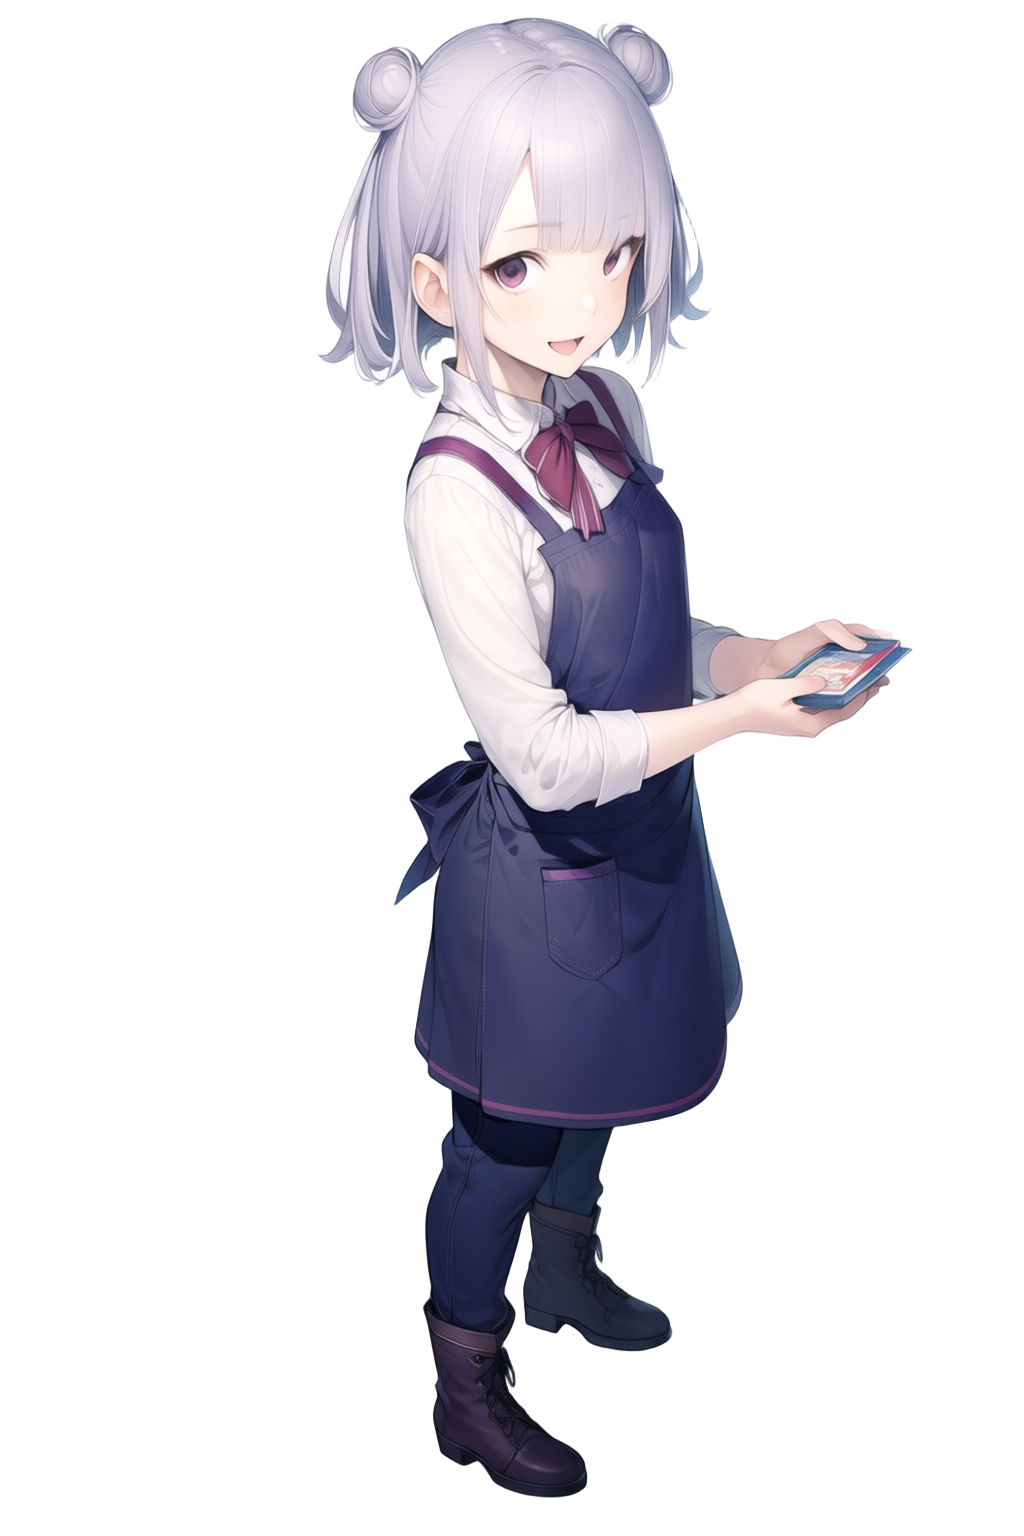
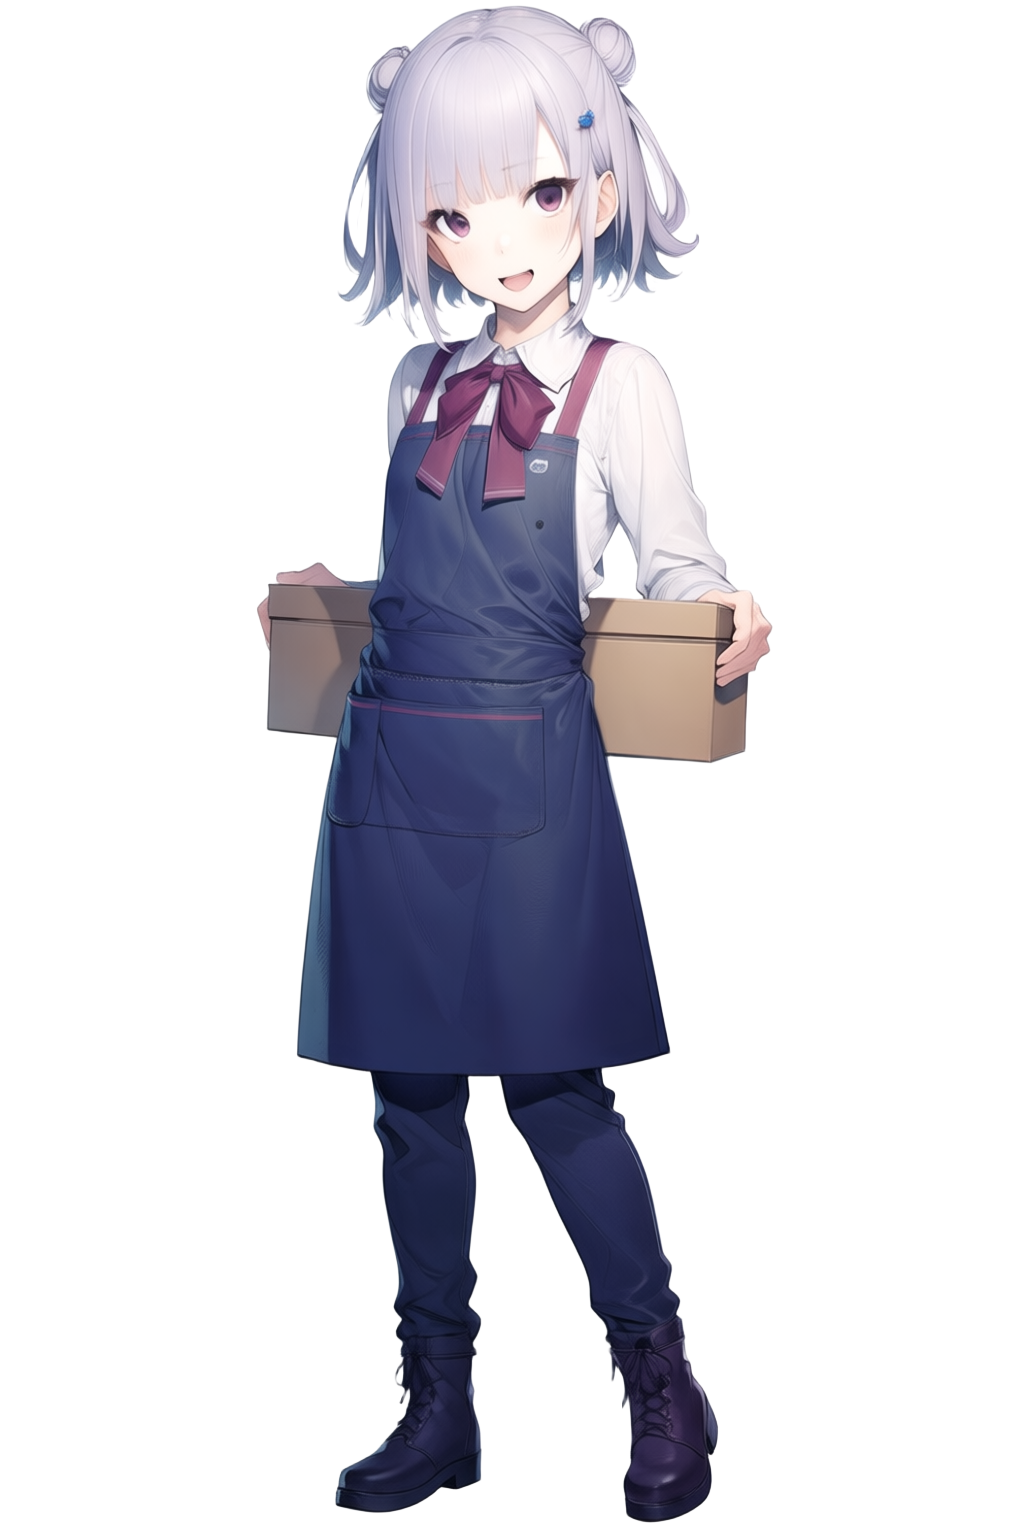
feat: refine restock assistant pilot pose

Changed region(s): [[0.25, 0.0, 0.9062, 1.0]]

diff --git a/docs/art/CHARACTER_VISUAL_PILOT_REVIEW_2026-11-01.md b/docs/art/CHARACTER_VISUAL_PILOT_REVIEW_2026-11-01.md
@@ -61,7 +61,7 @@ This review covers the 50-image pilot. The remaining 284 candidates stay review-
 | `functional_campaign` | functional pose | SCR-13 / `seasonal_campaign_started` | review pending; campaign product-presentation pose |
 | `functional_map_proposal` | functional pose | SCR-13 / `map_proposal_open` | review pending; map proposal pose shown in the area-map side panel |
 | `functional_register_guidance` | functional pose | SCR-06 / `story_register` | review pending; register placement tutorial pose |
-| `functional_restock_guidance` | functional pose | SCR-06 / `story_first_restock` | review pending; restocking tutorial pose |
+| `functional_restock_guidance` | functional pose | SCR-06 / `story_first_restock` | review pending; replaced with candidate `functional_005` (closed stock box / inventory arrival pose) |
 | `functional_day_report` | functional pose | SCR-18 / `day_end_normal` | review pending; normal daily-report pose |
 | `functional_business_greeting` | functional pose | SCR-09 / `business_started` | review pending; opening greeting pose; replaces the mismatched rival-store candidate |
 | `functional_three_sales` | functional pose | SCR-18 / `challenge_sales_3` | review pending; daily challenge presentation |
